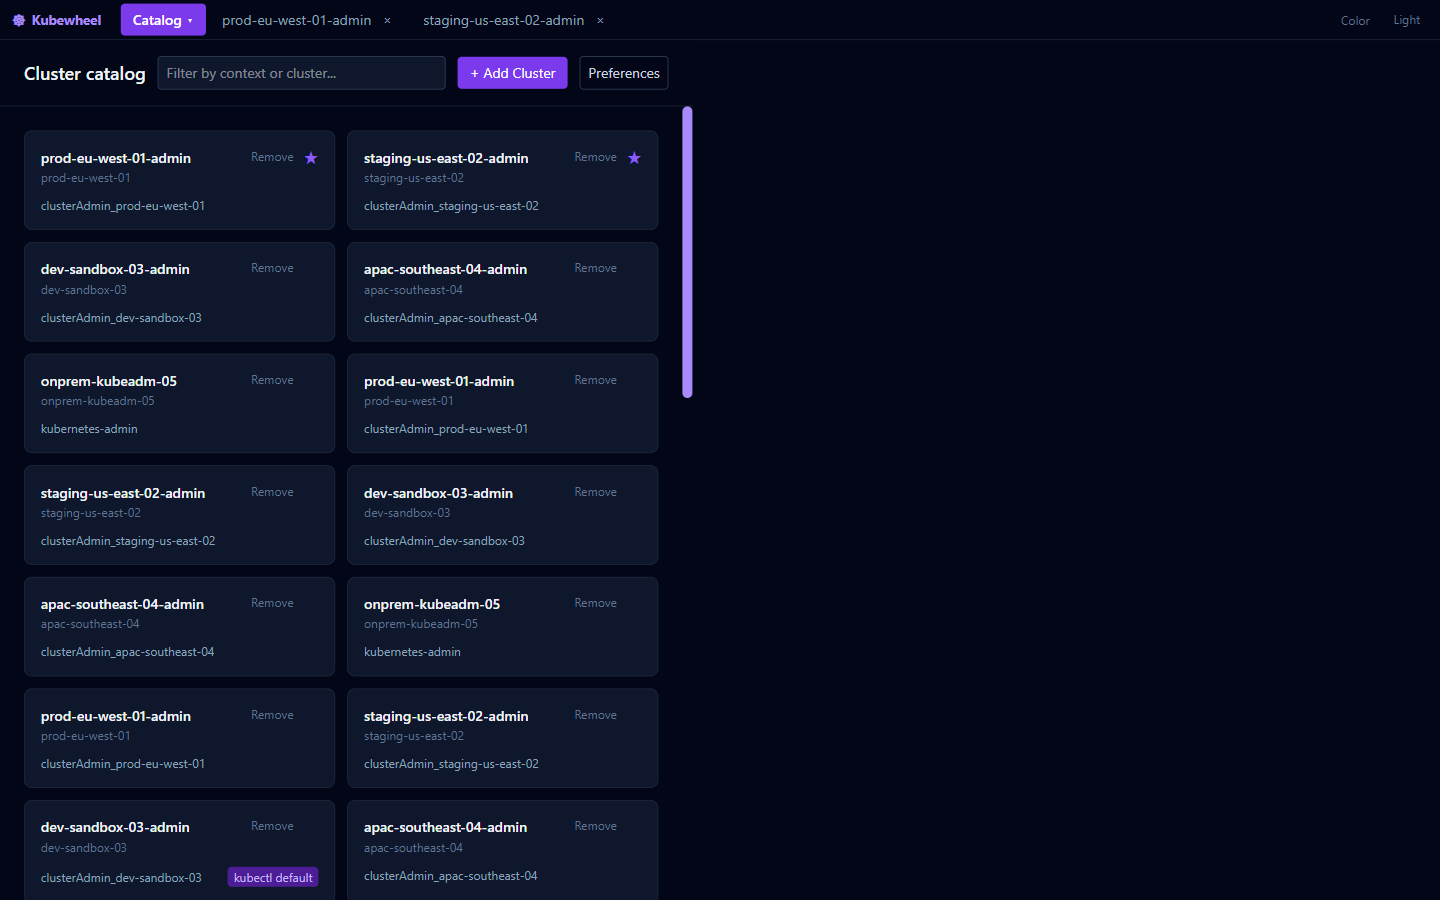
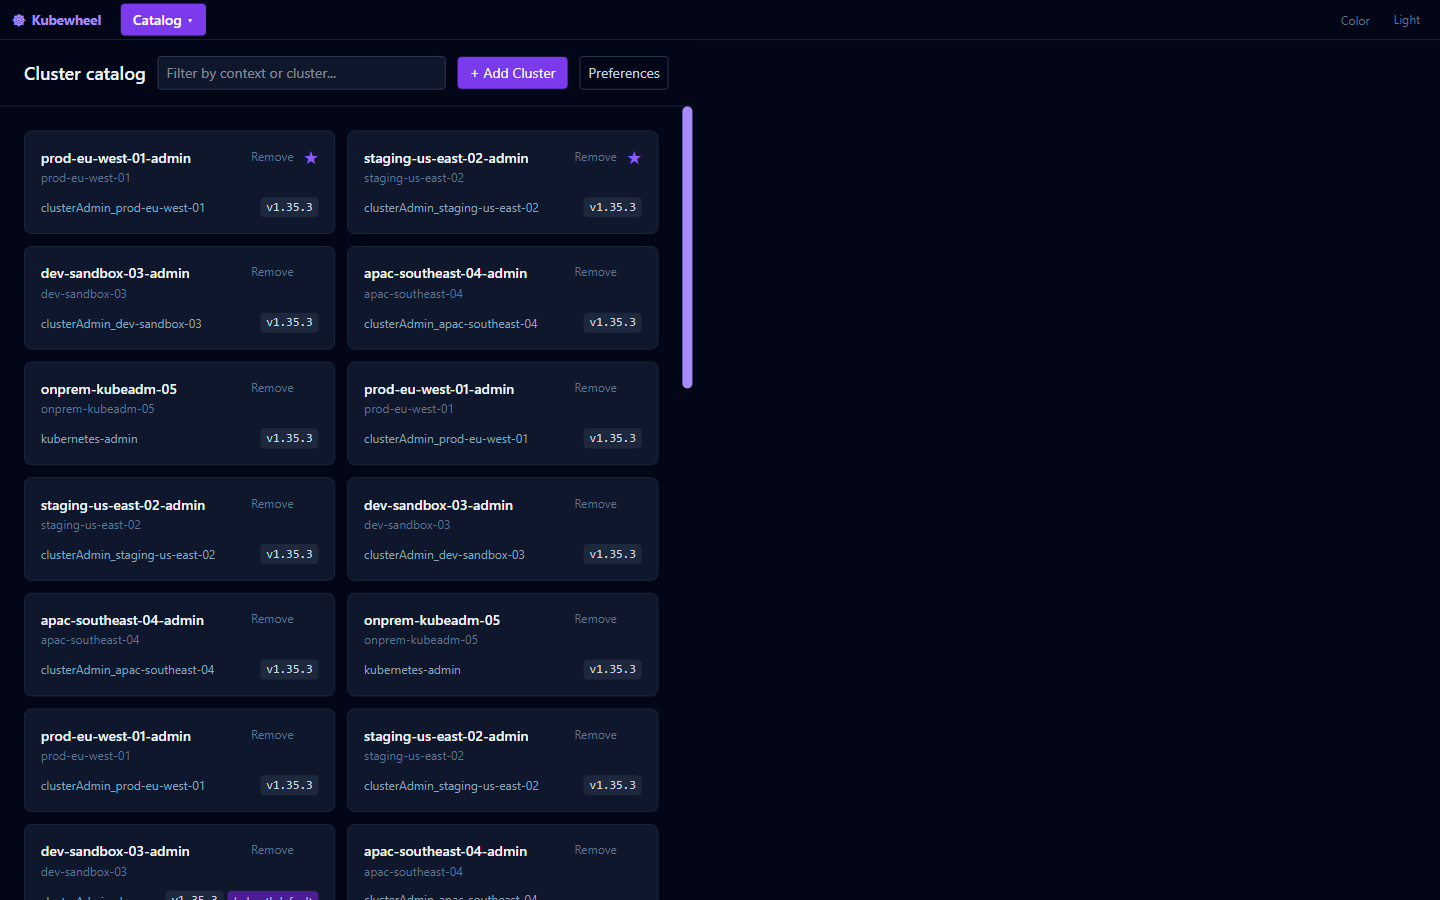
Update README screenshots for the version badges and Home screen
The catalog screenshot was captured before those two features landed
(previous commit), so it didn't reflect the current UI.

diff --git a/README.md b/README.md
@@ -12,13 +12,13 @@ of a full IDE.
 
 ## Screenshots
 
-| Cluster catalog | Cluster overview |
+| Home | Cluster catalog |
 | --- | --- |
-| ![Cluster catalog, with Add Cluster and per-card Remove/Favorite controls](docs/screenshots/catalog.png) | ![Cluster overview with node list and live CPU/memory usage](docs/screenshots/overview.png) |
+| ![Home screen with a short description of the tool and a Browse Clusters button](docs/screenshots/home.png) | ![Cluster catalog, with Add Cluster, per-card Remove/Favorite controls, and a Kubernetes version badge per cluster](docs/screenshots/catalog.png) |
 
-| Resource browser |
-| --- |
-| ![Pods table across all namespaces, with red/green health-status coloring](docs/screenshots/resources.png) |
+| Cluster overview | Resource browser |
+| --- | --- |
+| ![Cluster overview with node list and live CPU/memory usage](docs/screenshots/overview.png) | ![Pods table across all namespaces, with red/green health-status coloring](docs/screenshots/resources.png) |
 
 *(Cluster, namespace, node, and IP names in these screenshots are synthetic placeholders, not real
 infrastructure.)*
